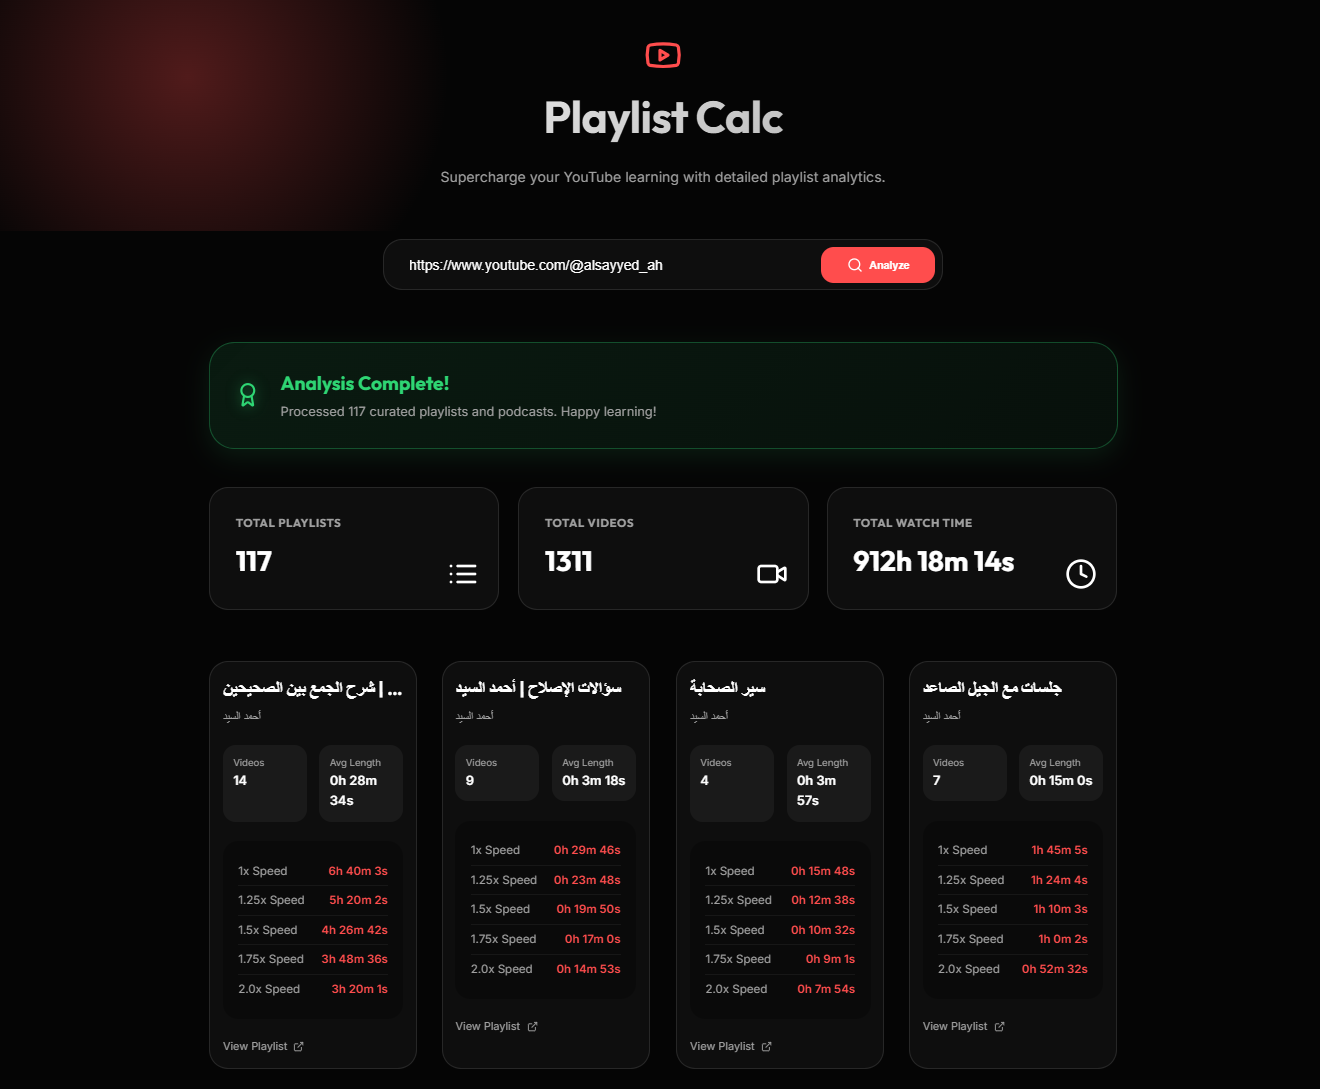
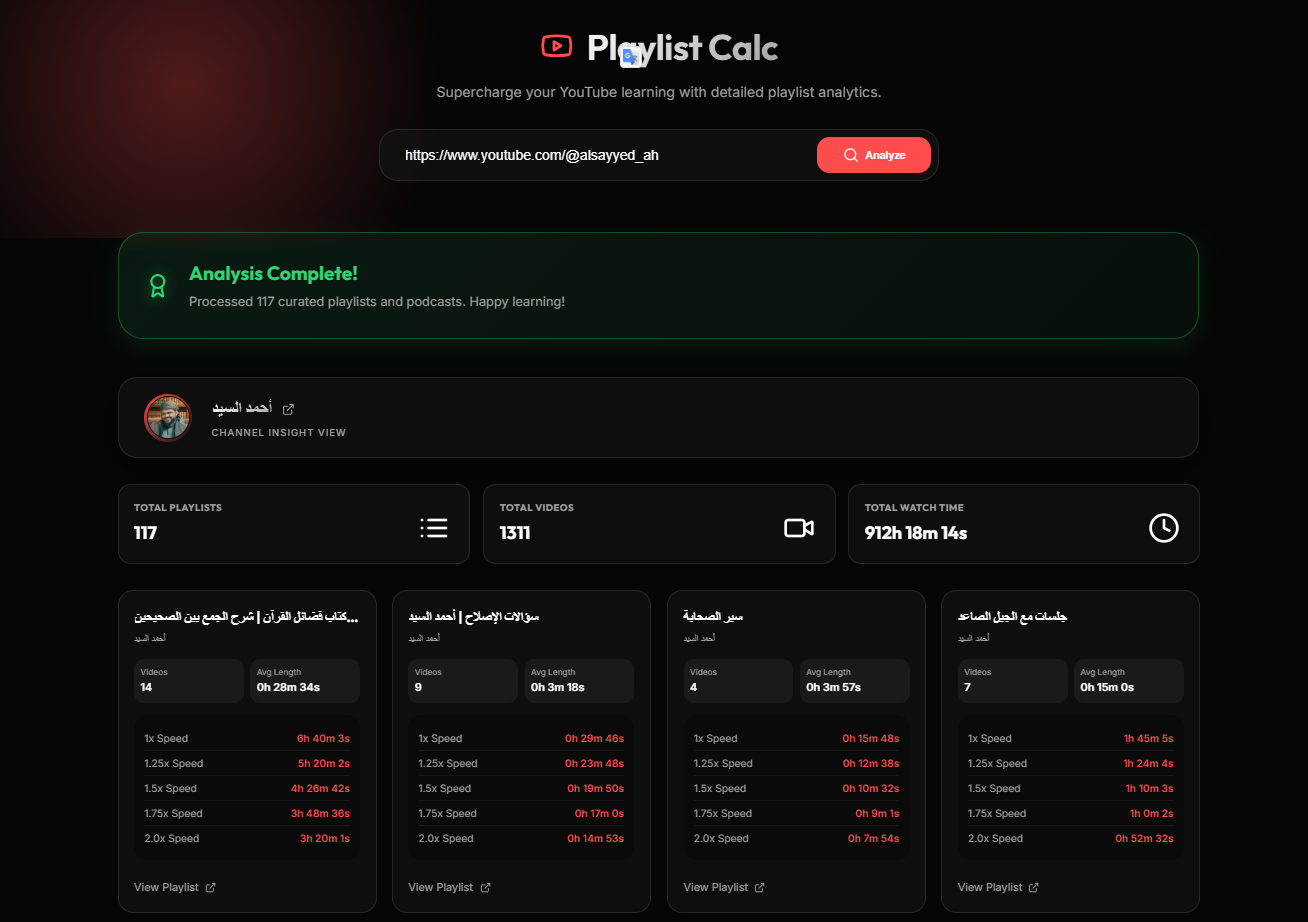
compact the view

diff --git a/frontend/src/index.css b/frontend/src/index.css
@@ -36,8 +36,8 @@ h4 {
 
 .app-container {
   min-height: 100vh;
-  padding: 2rem;
-  max-width: 1200px;
+  padding: 1rem 1.5rem;
+  max-width: 1400px;
   margin: 0 auto;
   position: relative;
 }
@@ -68,17 +68,25 @@ h4 {
 /* Header Section */
 header {
   text-align: center;
-  margin-bottom: 4rem;
-  padding-top: 2rem;
+  margin-bottom: 2rem;
+  padding-top: 1rem;
 }
 
 header h1 {
-  font-size: 3.5rem;
+  font-size: 2.8rem;
   letter-spacing: -0.02em;
-  margin-bottom: 1rem;
+  margin-bottom: 0;
   background: linear-gradient(135deg, #fff 0%, #a0a0a0 100%);
   -webkit-background-clip: text;
   -webkit-text-fill-color: transparent;
+}
+
+.title-row {
+  display: flex;
+  align-items: center;
+  justify-content: center;
+  gap: 1rem;
+  margin-bottom: 0.5rem;
 }
 
 header p {
@@ -143,38 +151,102 @@ button.primary:disabled {
   cursor: not-allowed;
 }
 
+/* Channel Header */
+.channel-header {
+  display: flex;
+  align-items: center;
+  gap: 1.5rem;
+  background: var(--bg-card);
+  padding: 1.2rem 2rem;
+  border-radius: 1.5rem;
+  border: 1px solid var(--border);
+  backdrop-filter: var(--glass-effect);
+  margin-bottom: 2rem;
+  box-shadow: 0 10px 40px rgba(0, 0, 0, 0.4);
+}
+
+.channel-avatar-wrapper {
+  width: 60px;
+  height: 60px;
+  border-radius: 50%;
+  padding: 3px;
+  background: linear-gradient(135deg, var(--accent-red), transparent);
+  flex-shrink: 0;
+}
+
+.channel-avatar {
+  width: 100%;
+  height: 100%;
+  border-radius: 50%;
+  object-fit: cover;
+  border: 2px solid var(--bg-deep);
+}
+
+.channel-info h2 {
+  font-size: 1.4rem;
+  margin-bottom: 0.1rem;
+  background: linear-gradient(135deg, #fff 0%, #a0a0a0 100%);
+  -webkit-background-clip: text;
+  -webkit-text-fill-color: transparent;
+}
+
+.channel-info p {
+  color: var(--text-secondary);
+  font-size: 0.75rem;
+  letter-spacing: 0.1em;
+  text-transform: uppercase;
+  font-weight: 500;
+}
+
+.channel-name-link {
+  display: flex;
+  align-items: center;
+  gap: 0.8rem;
+  text-decoration: none;
+  transition: opacity 0.2s ease;
+}
+
+.channel-name-link:hover {
+  opacity: 0.8;
+}
+
+.channel-name-link svg {
+  color: var(--text-secondary);
+}
+
 /* Stats Summary */
 .summary-grid {
   display: grid;
-  grid-template-columns: repeat(auto-fit, minmax(250px, 1fr));
-  gap: 1.5rem;
-  margin-bottom: 4rem;
+  grid-template-columns: repeat(auto-fit, minmax(200px, 1fr));
+  gap: 1rem;
+  margin-bottom: 2rem;
 }
 
 .stat-card {
   background: var(--bg-card);
   border: 1px solid var(--border);
-  border-radius: 1.5rem;
-  padding: 2rem;
+  border-radius: 1rem;
+  padding: 1.2rem;
   backdrop-filter: var(--glass-effect);
   transition: transform 0.3s ease;
+  position: relative;
 }
 
 .stat-card:hover {
-  transform: translateY(-5px);
+  transform: translateY(-3px);
   border-color: rgba(255, 255, 255, 0.2);
 }
 
 .stat-card h3 {
   color: var(--text-secondary);
-  font-size: 0.9rem;
+  font-size: 0.75rem;
   text-transform: uppercase;
   letter-spacing: 0.05em;
-  margin-bottom: 0.5rem;
+  margin-bottom: 0.3rem;
 }
 
 .stat-card .value {
-  font-size: 2.2rem;
+  font-size: 1.4rem;
   font-weight: 700;
   font-family: 'Outfit', sans-serif;
 }
@@ -183,13 +255,13 @@ button.primary:disabled {
 .playlist-grid {
   display: grid;
   grid-template-columns: repeat(auto-fill, minmax(260px, 1fr));
-  gap: 2rem;
+  gap: 1.2rem;
 }
 
 .playlist-card {
   background: var(--bg-card);
   border: 1px solid var(--border);
-  border-radius: 1.5rem;
+  border-radius: 1.2rem;
   overflow: hidden;
   backdrop-filter: var(--glass-effect);
   transition: all 0.3s cubic-bezier(0.4, 0, 0.2, 1);
@@ -197,20 +269,20 @@ button.primary:disabled {
 
 .playlist-card:hover {
   border-color: var(--accent-red);
-  transform: scale(1.02);
+  transform: translateY(-4px);
 }
 
 .card-content {
-  padding: 1rem;
+  padding: 1.2rem;
 }
 
 .card-header {
-  margin-bottom: 1.5rem;
+  margin-bottom: 1rem;
 }
 
 .card-header h2 {
-  font-size: 1.4rem;
-  margin-bottom: 0.3rem;
+  font-size: 1.1rem;
+  margin-bottom: 0.2rem;
   white-space: nowrap;
   overflow: hidden;
   text-overflow: ellipsis;
@@ -218,44 +290,44 @@ button.primary:disabled {
 
 .card-header .creator {
   color: var(--text-secondary);
-  font-size: 0.9rem;
+  font-size: 0.75rem;
 }
 
 .card-stats {
   display: grid;
   grid-template-columns: 1fr 1fr;
-  gap: 1rem;
-  margin-bottom: 1.5rem;
+  gap: 0.5rem;
+  margin-bottom: 1rem;
 }
 
 .mini-stat {
   background: rgba(255, 255, 255, 0.05);
-  padding: 0.8rem;
-  border-radius: 1rem;
+  padding: 0.5rem;
+  border-radius: 0.8rem;
 }
 
 .mini-stat label {
   display: block;
-  font-size: 0.75rem;
+  font-size: 0.65rem;
   color: var(--text-secondary);
 }
 
 .mini-stat .val {
   font-weight: 600;
-  font-size: 1rem;
+  font-size: 0.85rem;
 }
 
 .speed-table {
   background: rgba(0, 0, 0, 0.3);
-  padding: 1.2rem;
-  border-radius: 1.2rem;
+  padding: 0.8rem;
+  border-radius: 1rem;
 }
 
 .speed-row {
   display: flex;
   justify-content: space-between;
-  padding: 0.4rem 0;
-  font-size: 0.9rem;
+  padding: 0.3rem 0;
+  font-size: 0.8rem;
   border-bottom: 1px solid rgba(255, 255, 255, 0.05);
 }
 

diff --git a/frontend/src/App.jsx b/frontend/src/App.jsx
@@ -8,7 +8,7 @@ const API_URL = 'http://localhost:5000/api/analyze';
 function App() {
   const [url, setUrl] = useState('');
   const [loading, setLoading] = useState(false);
-  const [data, setData] = useState({ playlists: [], summary: null });
+  const [data, setData] = useState({ playlists: [], summary: null, channel: null });
   const [progress, setProgress] = useState({ current: 0, total: 0 });
   const [error, setError] = useState(null);
   const [isFinished, setIsFinished] = useState(false);
@@ -19,7 +19,7 @@ function App() {
 
     setLoading(true);
     setError(null);
-    setData({ playlists: [], summary: null });
+    setData({ playlists: [], summary: null, channel: null });
     setProgress({ current: 0, total: 0 });
     setIsFinished(false);
 
@@ -52,6 +52,7 @@ function App() {
               
               if (event.type === 'init') {
                 setProgress(prev => ({ ...prev, total: event.total }));
+                setData(prev => ({ ...prev, channel: event.channel }));
               } else if (event.type === 'playlist') {
                 setData(prev => ({
                   ...prev,
@@ -89,9 +90,12 @@ function App() {
           initial={{ opacity: 0, y: -20 }}
           animate={{ opacity: 1, y: 0 }}
           transition={{ duration: 0.6 }}
+          className="header-content"
         >
-          <Youtube className="mx-auto text-red-500 mb-4" size={48} strokeWidth={2} style={{ color: '#ff4d4d' }} />
-          <h1>Playlist Calc</h1>
+          <div className="title-row">
+            <Youtube className="text-red-500" size={42} strokeWidth={2} style={{ color: '#ff4d4d' }} />
+            <h1>Playlist Calc</h1>
+          </div>
           <p>Supercharge your YouTube learning with detailed playlist analytics.</p>
         </motion.div>
       </header>
@@ -141,13 +145,28 @@ function App() {
       </AnimatePresence>
 
       <AnimatePresence mode="wait">
-        {(data.playlists.length > 0 || data.summary) && (
+        {(data.playlists.length > 0 || data.summary || data.channel) && (
           <motion.div
             initial={{ opacity: 0, y: 40 }}
             animate={{ opacity: 1, y: 0 }}
             exit={{ opacity: 0, y: 40 }}
             transition={{ duration: 0.5 }}
           >
+            {data.channel && (
+              <div className="channel-header">
+                <div className="channel-avatar-wrapper">
+                  <img src={data.channel.thumbnail} alt={data.channel.title} className="channel-avatar" />
+                </div>
+                <div className="channel-info">
+                  <a href={data.channel.url} target="_blank" rel="noopener noreferrer" className="channel-name-link">
+                    <h2>{data.channel.title}</h2>
+                    <ExternalLink size={16} />
+                  </a>
+                  <p>Channel Insight View</p>
+                </div>
+              </div>
+            )}
+
             {data.summary && (
               <div className="summary-grid">
                 <div className="stat-card">

diff --git a/server.py b/server.py
@@ -31,8 +31,10 @@ def get_channel_playlists(url):
         'quiet': True,
         'extract_flat': True,
         'skip_download': True,
-        'socket_timeout': 30,
+        'socket_timeout': 60,
         'no_warnings': True,
+        'nocheckcertificate': True,
+        'user_agent': 'Mozilla/5.0 (Windows NT 10.0; Win64; x64) AppleWebKit/537.36 (KHTML, like Gecko) Chrome/121.0.0.0 Safari/537.36',
     }
     
     # Try multiple common tab URLs to find all content
@@ -90,7 +92,10 @@ def get_playlist_info_fast(url):
         'quiet': True,
         'extract_flat': True,
         'skip_download': True,
-        'socket_timeout': 30,
+        'socket_timeout': 60,
+        'no_warnings': True,
+        'nocheckcertificate': True,
+        'user_agent': 'Mozilla/5.0 (Windows NT 10.0; Win64; x64) AppleWebKit/537.36 (KHTML, like Gecko) Chrome/121.0.0.0 Safari/537.36',
     }
     try:
         with yt_dlp.YoutubeDL(ydl_opts) as ydl:
@@ -147,8 +152,35 @@ def analyze():
             playlists = get_channel_playlists(channel_url)
             total = len(playlists)
             
-            # Initial event with total count
-            yield f"data: {json.dumps({'type': 'init', 'total': total})}\n\n"
+            # Extract channel metadata from the first successful extraction
+            channel_metadata = {}
+            with yt_dlp.YoutubeDL({
+                'quiet': True, 
+                'extract_flat': True, 
+                'skip_download': True,
+                'no_warnings': True,
+                'socket_timeout': 60,
+                'nocheckcertificate': True,
+                'user_agent': 'Mozilla/5.0 (Windows NT 10.0; Win64; x64) AppleWebKit/537.36 (KHTML, like Gecko) Chrome/121.0.0.0 Safari/537.36',
+            }) as ydl:
+                try:
+                    c_info = ydl.extract_info(channel_url, download=False)
+                    thumb_url = ""
+                    if c_info.get('thumbnails'):
+                        thumb_url = c_info['thumbnails'][-1]['url']
+                    elif c_info.get('thumbnail'):
+                        thumb_url = c_info['thumbnail']
+                        
+                    channel_metadata = {
+                        "title": c_info.get('uploader') or c_info.get('title'),
+                        "thumbnail": thumb_url,
+                        "url": c_info.get('webpage_url') or channel_url
+                    }
+                except:
+                    pass
+
+            # Initial event with total count and channel info
+            yield f"data: {json.dumps({'type': 'init', 'total': total, 'channel': channel_metadata})}\n\n"
             
             processed_results = []
             for i, pl in enumerate(playlists):
